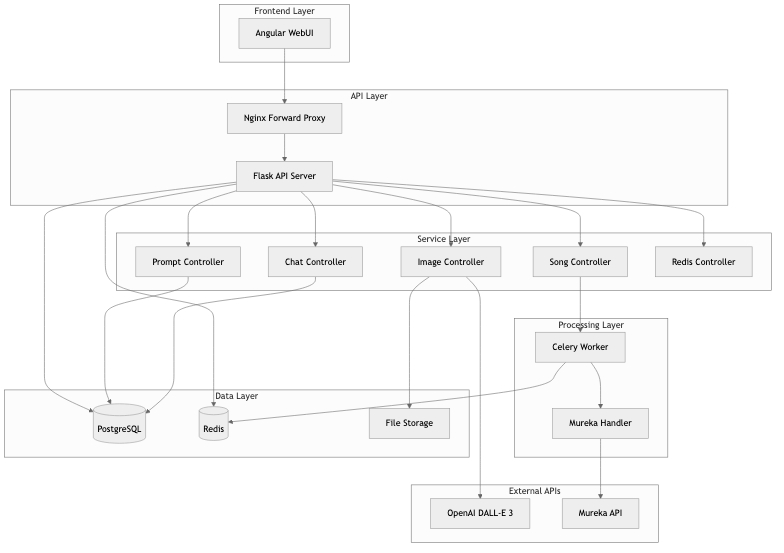
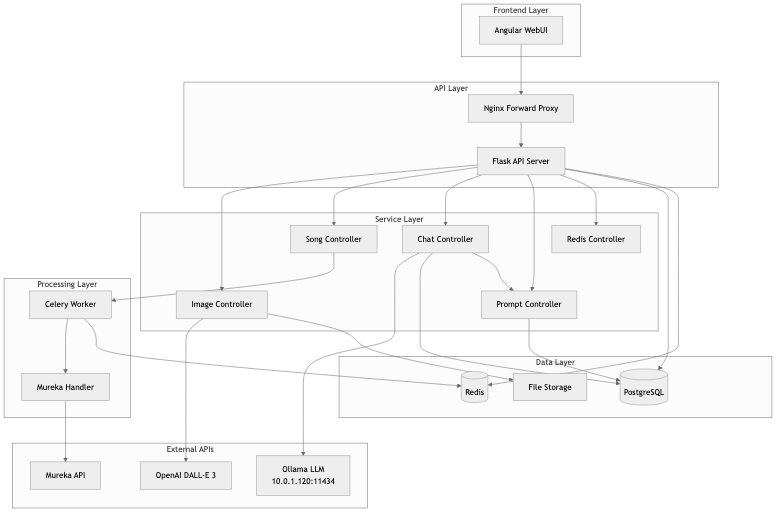
settings implementing

diff --git a/docs/README.md b/docs/README.md
@@ -48,6 +48,11 @@
     - [11.2 Security](#112-security)
     - [11.3 Monitoring](#113-monitoring)
 12. [Glossar](#12-glossar)
+13. [Datenbank-Schema](#13-datenbank-schema)
+    - [13.1 Entity-Relationship-Diagramm](#131-entity-relationship-diagramm)
+    - [13.2 Tabellen-Übersicht](#132-tabellen-übersicht)
+    - [13.3 Beziehungen und Constraints](#133-beziehungen-und-constraints)
+    - [13.4 Migration und Wartung](#134-migration-und-wartung)
 
 ## Abbildungsverzeichnis
 
@@ -63,6 +68,7 @@
 - [Abbildung 10.2: Error Handling & Retry Logic](#102-error-handling--retry-logic) - `images/10.2_error_handling.png`
 - [Abbildung 10.3: Health Check Prozess](#103-health-check-prozess) - `images/10.3_health_check.png`
 - [Abbildung 10.4: Backup & Recovery Prozess](#104-backup--recovery-prozess) - `images/10.4_backup_recovery.png`
+- [Abbildung 13.1: Datenbank Schema](#131-entity-relationship-diagramm) - `images/13_database_schema.png`
 
 ---
 
@@ -448,16 +454,20 @@ GET /api/v1/song/task/queue-status
 }
 ```
 
-### 8.5 Chat API (`/api/v1/ollama/chat`)
+### 8.5 Chat API (`/api/v1/ollama/chat`) - Ollama Integration
 
-#### 8.5.1 Chat-Generierung
+Die Chat API bietet Zugang zu Ollama-basierten KI-Modellen für Text-Generierung und erweiterte Prompt-Verarbeitung. Alle Endpunkte nutzen das externe Ollama-System (standardmäßig `http://10.0.1.120:11434`).
+
+#### 8.5.1 Vollständige Chat-Generierung
 ```http
 POST /api/v1/ollama/chat/generate
 Content-Type: application/json
 
 {
-    "model": "llama3.2:latest",
+    "model": "llama3.2:3b",
     "prompt": "Erkläre mir künstliche Intelligenz",
+    "pre_condition": "Du bist ein hilfreicher KI-Assistent. ",
+    "post_condition": " Antworte präzise und verständlich.",
     "options": {
         "temperature": 0.7,
         "max_tokens": 500
@@ -468,16 +478,84 @@ Content-Type: application/json
 **Response:**
 ```json
 {
-    "success": true,
-    "data": {
-        "response": "Künstliche Intelligenz (KI) ist...",
-        "model": "llama3.2:latest",
-        "prompt_eval_count": 25,
-        "eval_count": 150,
-        "eval_duration": 2500000000
-    }
+    "response": "Künstliche Intelligenz (KI) ist...",
+    "model": "llama3.2:3b",
+    "prompt_eval_count": 25,
+    "eval_count": 150,
+    "eval_duration": 2500000000
 }
 ```
+
+#### 8.5.2 Llama3-Simple (Template-basiert)
+```http
+POST /api/v1/ollama/chat/generate-llama3-simple
+Content-Type: application/json
+
+{
+    "prompt": "Verbessere diesen Text: Das ist ein Test",
+    "pre_condition": "Zusätzlicher Kontext: ",
+    "post_condition": " Bitte kurz halten."
+}
+```
+
+**Funktionalität:**
+- Nutzt `image/enhance` Template für AI-Parameter
+- Fallback: `llama3.2:3b`, temperature: 0.7, max_tokens: 2048
+
+#### 8.5.3 GPT-OSS-Simple (Template-flexibel)
+```http
+POST /api/v1/ollama/chat/generate-gpt-oss-simple
+Content-Type: application/json
+
+{
+    "prompt": "Übersetze ins Deutsche: Hello world",
+    "template_category": "image",
+    "template_action": "translate",
+    "pre_condition": "Kontext: ",
+    "post_condition": " Nur das Ergebnis."
+}
+```
+
+**Funktionalität:**
+- Template-Auswahl via `template_category`/`template_action`
+- Fallback: `gpt-oss:20b`, temperature: 0.7, max_tokens: 800
+
+#### 8.5.4 Lyrics-Generierung (Spezialisiert)
+```http
+POST /api/v1/ollama/chat/generate-lyrics
+Content-Type: application/json
+
+{
+    "input_text": "Ein Song über Freundschaft und Hoffnung"
+}
+```
+
+**Funktionalität:**
+- Nutzt `lyrics/generate` Template vollständig
+- Automatische Prompt-Verarbeitung mit pre/post conditions
+- Optimiert für Song-Text-Generierung
+
+**Response (alle Endpunkte):**
+```json
+{
+    "response": "Generierter Text...",
+    "model": "verwendetes_modell",
+    "prompt_eval_count": 25,
+    "eval_count": 150,
+    "eval_duration": 2500000000
+}
+```
+
+#### 8.5.5 Konfiguration & Templates
+
+**Ollama-Verbindung:**
+- **URL**: Konfiguriert via `OLLAMA_URL` (Standard: `http://10.0.1.120:11434`)
+- **Timeout**: Konfiguriert via `OLLAMA_TIMEOUT` (Standard: 60s)
+
+**AI Magic Functions:**
+- Templates aus `prompt_templates` Tabelle werden für intelligente Prompt-Erweiterung genutzt
+- Template-Parameter: `model`, `temperature`, `max_tokens`, `pre_condition`, `post_condition`
+- Fallback-Mechanismus bei fehlenden Templates
 
 ### 8.6 Prompt Templates API (`/api/v1/prompts`)
 
@@ -752,15 +830,137 @@ services:
 | **Task ID**    | Celery Task Identifier für Async Operations                                     |
 | **Job ID**     | Mureka Job Identifier für Song Generation                                       |
 | **Choice**     | Einzelne Musikvariante von Mureka (meist 2 pro Generation)                      |
-| **Ollama**     | Open-Source LLM Runtime für lokale Chat-Generierung                             |
-| **Chat API**   | Ollama-basierte Text-Generierung für Conversational AI                          |
-| **Prompt Templates** | Wiederverwendbare Prompt-Vorlagen mit Platzhaltern                        |
+| **Ollama**     | Open-Source LLM Runtime für lokale Chat-Generierung (10.0.1.120:11434)         |
+| **Chat API**   | Ollama-basierte Text-Generierung für Conversational AI mit 4 Endpunkten         |
+| **AI Magic Functions** | Template-basierte intelligente Prompt-Erweiterung via prompt_templates   |
+| **Prompt Templates** | Wiederverwendbare Prompt-Vorlagen mit pre/post conditions und AI-Parametern |
+| **Template Processing** | Automatische Prompt-Optimierung mit model, temperature, max_tokens       |
 | **Settings**   | Frontend-Komponente für Systemkonfiguration und Benutzereinstellungen           |
+| **Entity-Relationship** | Datenbankschema mit 4 Tabellen und definierten Beziehungen                |
 | **aitestmock** | Mock-Server für OpenAI und Mureka APIs zur Kostensenkung in Development/Testing |
+
+---
+
+## 13. Datenbank-Schema
+
+### 13.1 Entity-Relationship-Diagramm
+
+![Database Schema](images/13_database_schema.png)
+
+*Abbildung 13.1: Datenbank Schema - Entity-Relationship-Diagramm aller Tabellen und Beziehungen*
+
+### 13.2 Tabellen-Übersicht
+
+#### 13.2.1 songs
+**Zweck**: Haupttabelle für Song-Generierung und -Verwaltung
+
+| Spalte | Typ | Beschreibung |
+|--------|-----|-------------|
+| `id` | UUID | Primary Key |
+| `task_id` | VARCHAR(255) | Celery Task ID (unique) |
+| `job_id` | VARCHAR(255) | MUREKA Job ID |
+| `lyrics` | TEXT | Song-Text Input |
+| `prompt` | TEXT | Style-Prompt für Generierung |
+| `model` | VARCHAR(100) | Generierungsmodell (default: "chirp-v3-5") |
+| `title` | VARCHAR(500) | Benutzerdefinierter Titel |
+| `tags` | VARCHAR(1000) | Benutzerdefinierte Tags |
+| `workflow` | VARCHAR(50) | Status: onWork, inUse, notUsed |
+| `status` | VARCHAR(50) | PENDING, PROGRESS, SUCCESS, FAILURE, CANCELLED |
+| `progress_info` | TEXT | JSON Progress-Details |
+| `error_message` | TEXT | Fehlerinformationen |
+| `mureka_response` | TEXT | Vollständige MUREKA Response (JSON) |
+| `mureka_status` | VARCHAR(100) | MUREKA-spezifischer Status |
+| `created_at` | TIMESTAMP | Erstellungszeitpunkt |
+| `updated_at` | TIMESTAMP | Letzte Aktualisierung |
+| `completed_at` | TIMESTAMP | Abschlusszeitpunkt |
+
+#### 13.2.2 song_choices
+**Zweck**: Einzelne Song-Varianten von MUREKA (1:N zu songs)
+
+| Spalte | Typ | Beschreibung |
+|--------|-----|-------------|
+| `id` | UUID | Primary Key |
+| `song_id` | UUID | Foreign Key zu songs.id |
+| `mureka_choice_id` | VARCHAR(255) | MUREKA Choice Identifier |
+| `choice_index` | INTEGER | Index im choices Array |
+| `mp3_url` | VARCHAR(1000) | MP3 Datei URL |
+| `flac_url` | VARCHAR(1000) | FLAC Datei URL |
+| `video_url` | VARCHAR(1000) | Video Datei URL |
+| `image_url` | VARCHAR(1000) | Cover-Bild URL |
+| `duration` | FLOAT | Dauer in Millisekunden |
+| `title` | VARCHAR(500) | Choice-Titel |
+| `tags` | VARCHAR(1000) | Choice-Tags |
+| `rating` | INTEGER | Bewertung (0=thumbs down, 1=thumbs up) |
+| `created_at` | TIMESTAMP | Erstellungszeitpunkt |
+| `updated_at` | TIMESTAMP | Letzte Aktualisierung |
+
+#### 13.2.3 generated_images
+**Zweck**: Generierte Bilder und Metadaten
+
+| Spalte | Typ | Beschreibung |
+|--------|-----|-------------|
+| `id` | UUID | Primary Key |
+| `prompt` | TEXT | Generierungs-Prompt |
+| `size` | VARCHAR(20) | Bildgröße (z.B. "1024x1024") |
+| `filename` | VARCHAR(255) | Eindeutiger Dateiname |
+| `file_path` | VARCHAR(500) | Lokaler Dateipfad |
+| `local_url` | VARCHAR(500) | Lokale Zugriffs-URL |
+| `model_used` | VARCHAR(100) | Verwendetes Generierungsmodell |
+| `prompt_hash` | VARCHAR(32) | Prompt-Hash für Deduplizierung |
+| `title` | VARCHAR(255) | Benutzerdefinierter Titel |
+| `tags` | TEXT | Benutzerdefinierte Tags |
+| `created_at` | TIMESTAMP | Erstellungszeitpunkt |
+| `updated_at` | TIMESTAMP | Letzte Aktualisierung |
+
+#### 13.2.4 prompt_templates
+**Zweck**: AI-Prompt Templates für verschiedene Kategorien und Aktionen
+
+| Spalte | Typ | Beschreibung |
+|--------|-----|-------------|
+| `id` | INTEGER | Primary Key |
+| `category` | VARCHAR(50) | Template-Kategorie (images, songs, lyrics) |
+| `action` | VARCHAR(50) | Template-Aktion (generate, enhance, translate) |
+| `pre_condition` | TEXT | Text vor dem Prompt |
+| `post_condition` | TEXT | Text nach dem Prompt |
+| `description` | TEXT | Template-Beschreibung |
+| `version` | VARCHAR(10) | Template-Version |
+| `model` | VARCHAR(50) | Ollama Model-Hint |
+| `temperature` | FLOAT | Ollama Temperature (0.0-2.0) |
+| `max_tokens` | INTEGER | Maximale Token-Anzahl |
+| `active` | BOOLEAN | Template ist aktiv |
+| `created_at` | TIMESTAMP | Erstellungszeitpunkt |
+| `updated_at` | TIMESTAMP | Letzte Aktualisierung |
+
+### 13.3 Beziehungen und Constraints
+
+- **songs ↔ song_choices**: 1:N Beziehung mit CASCADE DELETE
+- **Unique Constraints**: `songs.task_id`, `generated_images.filename`
+- **Indexes**: Auf `task_id`, `job_id`, `song_id` für Performance
+- **Foreign Keys**: `song_choices.song_id` → `songs.id`
+
+### 13.4 Migration und Wartung
+
+**Migration Commands:**
+```bash
+# Neue Migration erstellen
+alembic revision --autogenerate -m "description"
+
+# Migrationen anwenden
+alembic upgrade head
+
+# Aktuelle Version prüfen
+alembic current
+```
+
+**Wichtige Überlegungen:**
+- UUID als Primary Keys für bessere Skalierbarkeit
+- JSON-Felder für flexible Metadaten-Speicherung
+- Timestamps für Audit-Trail
+- Cascade Deletes für Datenintegrität
 
 ---
 
 *Dokument erstellt am: 01.09.2025*
 *Zuletzt aktualisiert: 23.09.2025*
-*Version: 1.4*
+*Version: 1.5*
 *Autor: Rob (rob.wellinger@gmail.com)*
